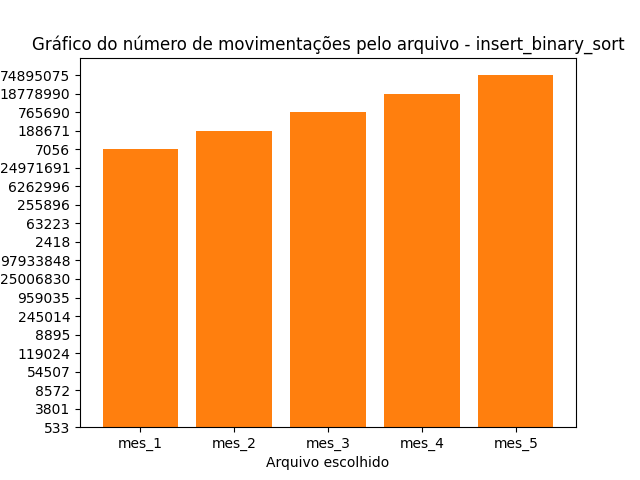
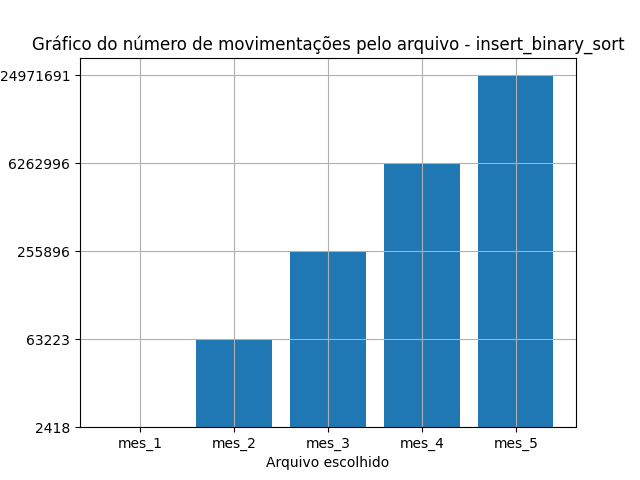
Fixing graph bug.

diff --git a/data/graph_generator.py b/data/graph_generator.py
@@ -36,6 +36,7 @@ for nome_do_arquivo in csv_files:
         # plt.show()
         plt.savefig("graphs/" + name + "-comparacoes.png", format="png", dpi=fig.dpi)
 
+        fig = plt.figure()
         plt.bar(arquivo, movimentos)
         plt.title("Gráfico do número de movimentações pelo arquivo - " + name)
         plt.xlabel("Arquivo escolhido")
